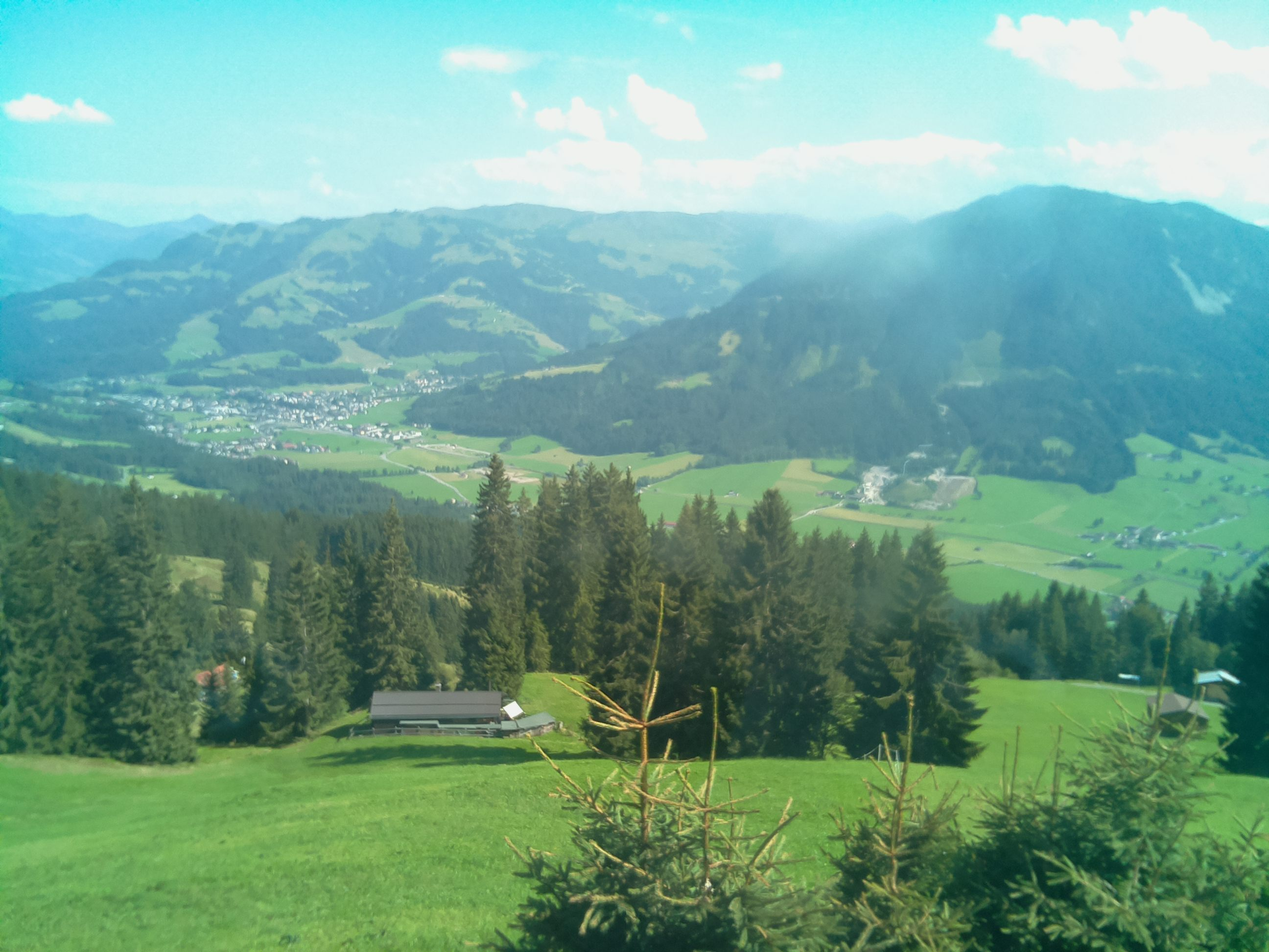
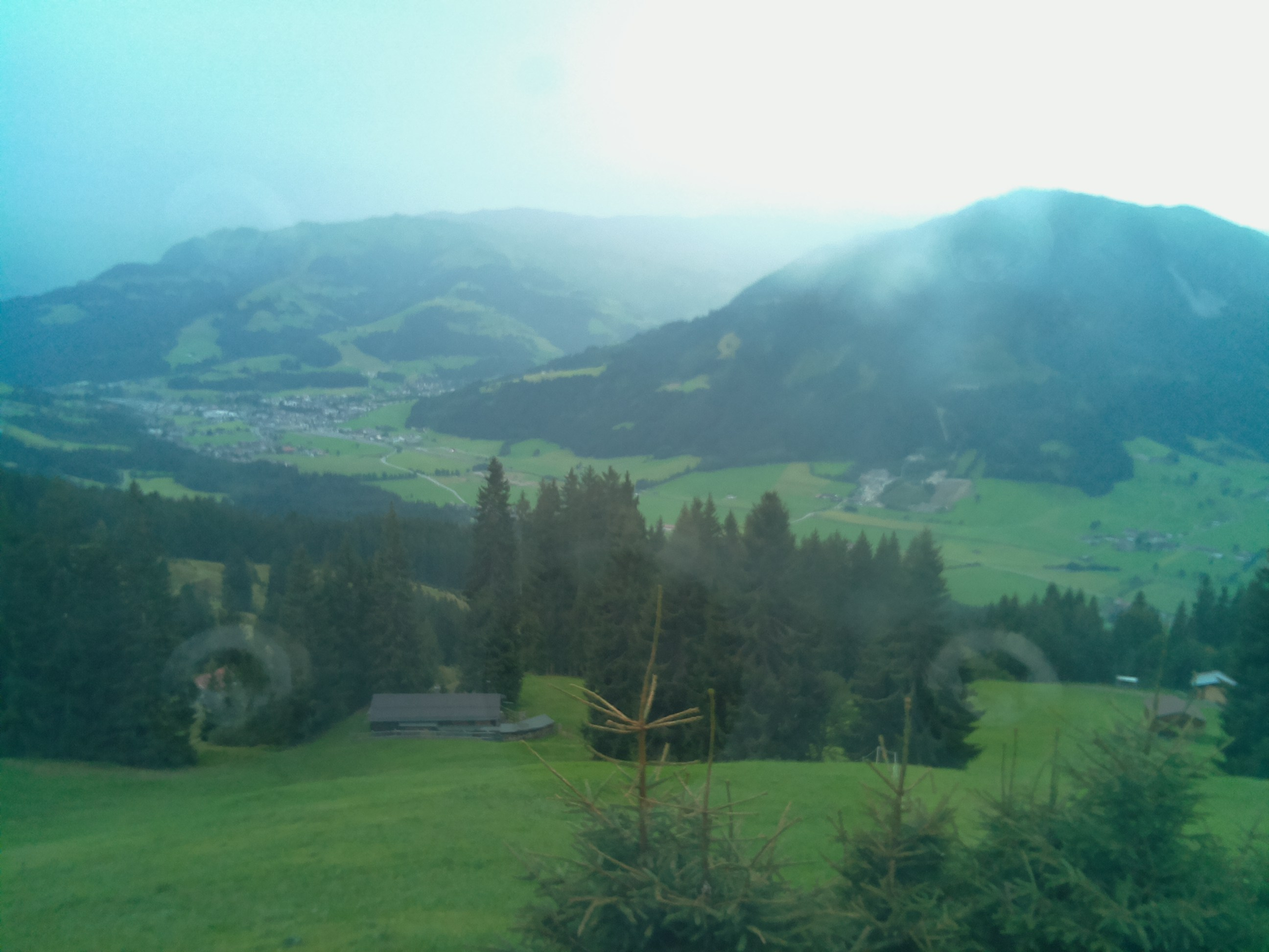
I'm a bot beep boop

diff --git a/resources/huette.md b/resources/huette.md
@@ -6,13 +6,13 @@ image: '/assets/img/'
 description: 'Live image from the Austrian alps'
 twitter_text: ' '
 ---
-## Latest image from 15 August 2021 at 16:11
+## Latest image from 16 August 2021 at 10:11
 <div class="huette">
   <div class="huette-image">
     <img src="{{ "/assets/img/huette.jpg" | prepend: site.baseurl }}">
   </div>
   <div class="huette-text">
-        <h2>Current Temperature: 26.375°C</h2>
+        <h2>Current Temperature: 15.312°C</h2>
         <p>A solar powered raspberry pi left alone in the wild is sending daily images and temperature data to this website. It should give you an impression about the current weather in the "Brixental".</p>
 
   </div>

diff --git a/rpi-script/huette.md b/rpi-script/huette.md
@@ -6,13 +6,13 @@ image: '/assets/img/'
 description: 'Live image from the Austrian alps'
 twitter_text: ' '
 ---
-## Latest image from 15 August 2021 at 16:11
+## Latest image from 16 August 2021 at 10:11
 <div class="huette">
   <div class="huette-image">
     <img src="{{ "/assets/img/huette.jpg" | prepend: site.baseurl }}">
   </div>
   <div class="huette-text">
-        <h2>Current Temperature: 26.375°C</h2>
+        <h2>Current Temperature: 15.312°C</h2>
         <p>A solar powered raspberry pi left alone in the wild is sending daily images and temperature data to this website. It should give you an impression about the current weather in the "Brixental".</p>
 
   </div>
